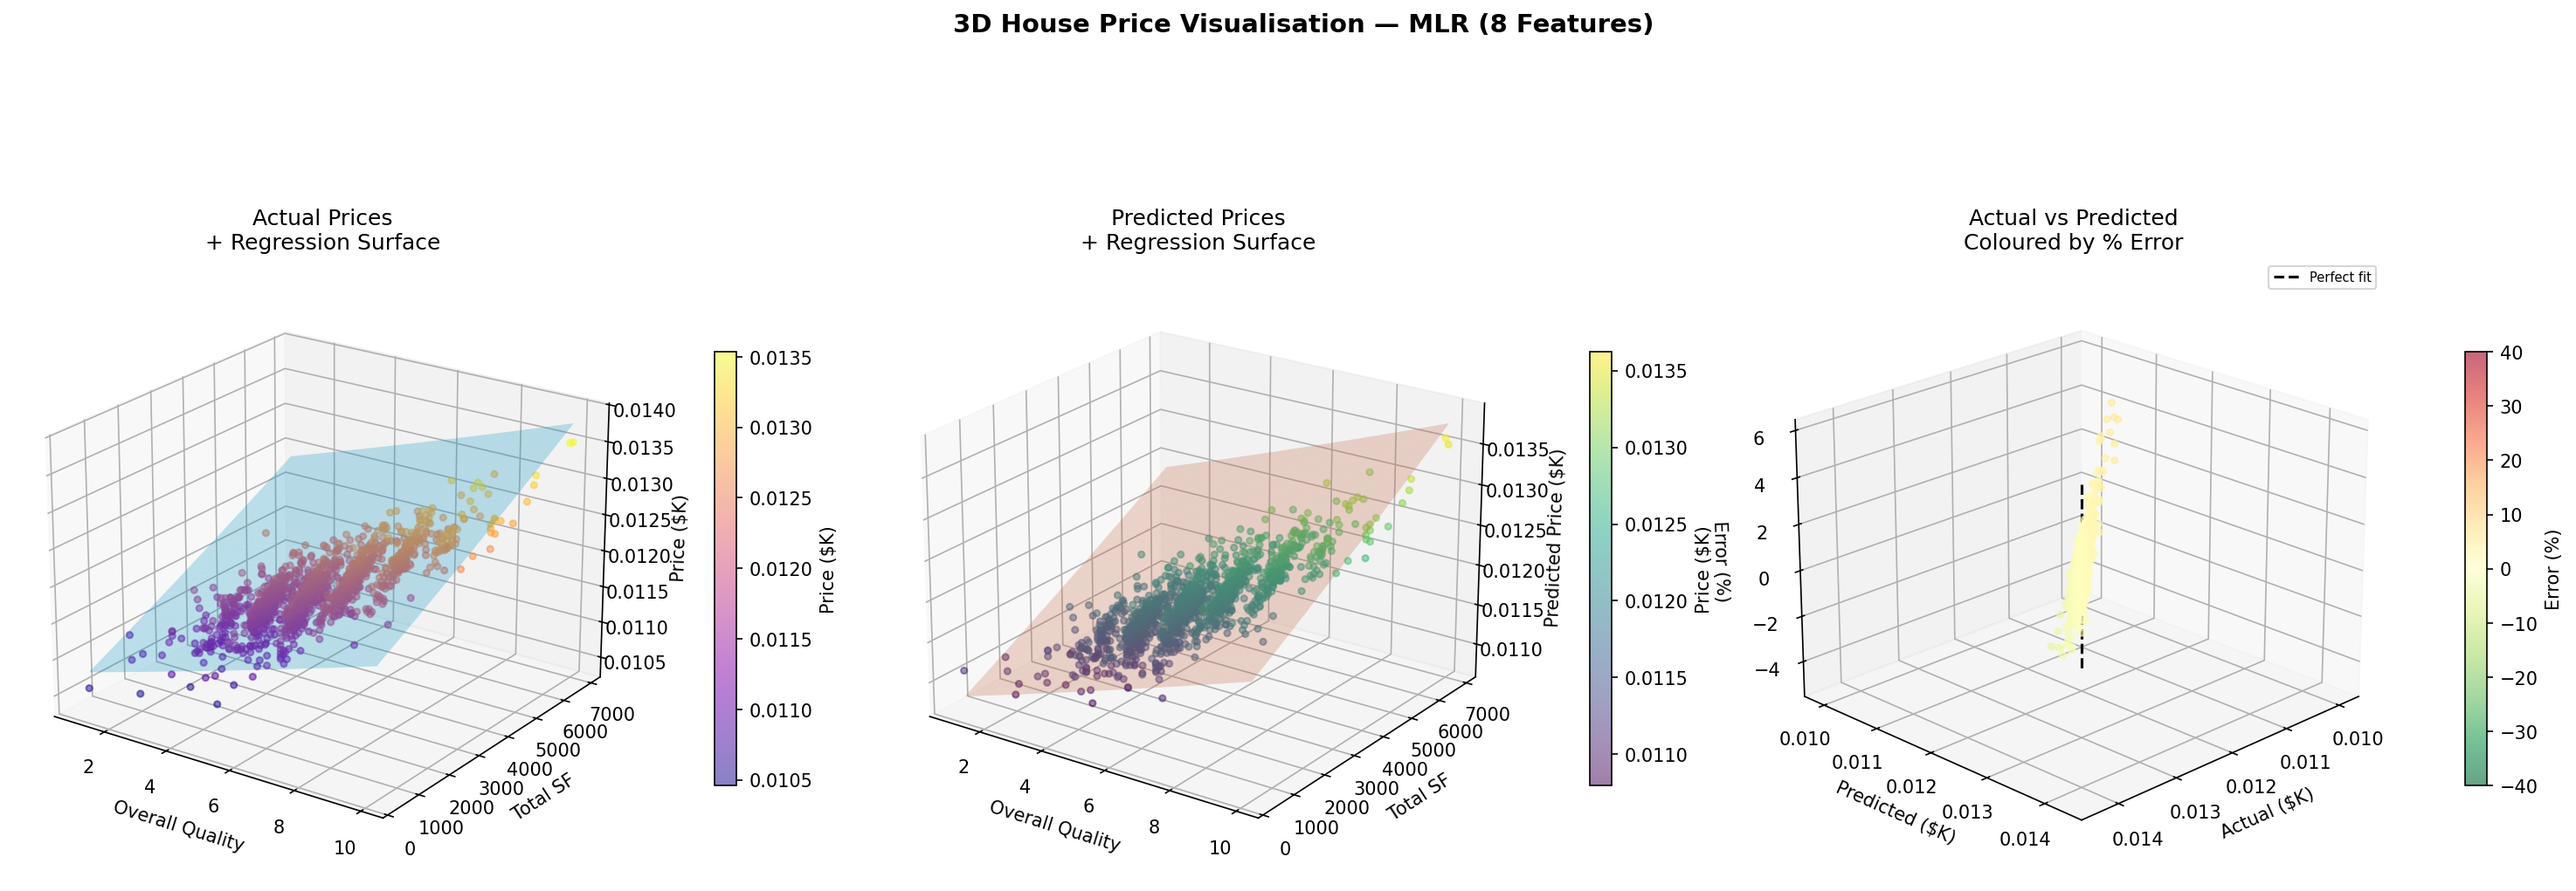
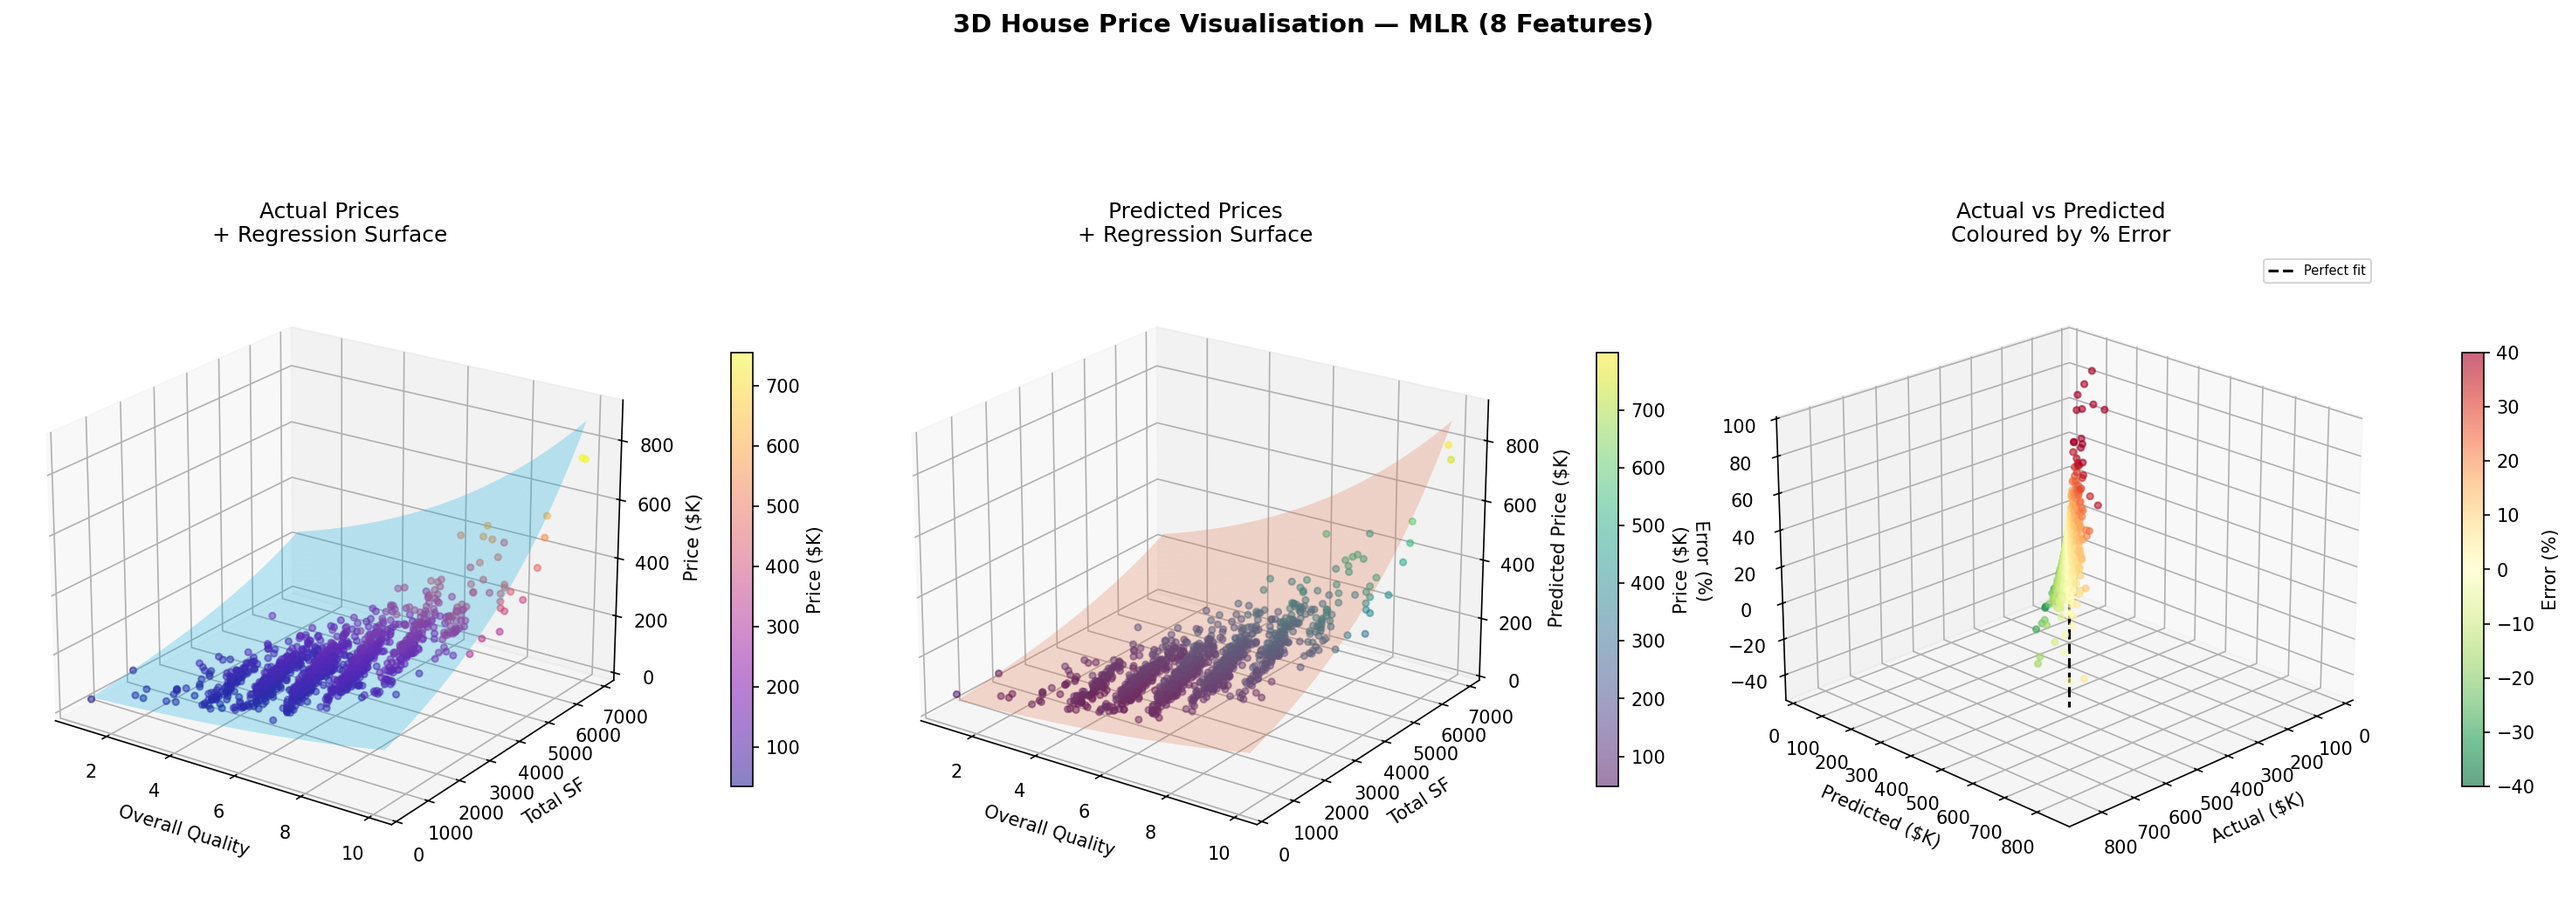
All main, model, evaluation improved for MAE RMSAE

diff --git a/evaluation.py b/evaluation.py
@@ -16,12 +16,32 @@ from sklearn.metrics import mean_absolute_error, mean_squared_error, r2_score
 def evaluate_model(model, preprocessor, X_test, y_test):
     X_sc   = preprocessor.transform(X_test)
     y_pred = model.predict(X_sc)
+    print("DEBUG:", y_pred[:5])
+    print("DEBUG exp:", np.exp(y_pred[:5]))
+    print("=" * 50)
+    print("DEBUG")
+    print(f"y_pred[:5]       : {y_pred[:5]}")
+    print(f"y_pred min/max   : {y_pred.min():.6f} / {y_pred.max():.6f}")
+    print(f"y_test[:5]       : {np.array(y_test)[:5]}")
+    print(f"exp(y_pred)[:5]  : {np.exp(y_pred[:5])}")
+    print(f"X_sc mean        : {X_sc.mean():.6f}")
+    print(f"X_sc std         : {X_sc.std():.6f}")
+    print(f"model.coef_[:3]  : {model.coef_[:3]}")
+    print("=" * 50)
+    # ── Log-scale metrics ──────────────────────────────────
+    r2   = r2_score(y_test, y_pred)
+    mae  = mean_absolute_error(y_test, y_pred)
+    rmse = np.sqrt(mean_squared_error(y_test, y_pred))
 
-    r2       = r2_score(y_test, y_pred)
-    mae      = mean_absolute_error(y_test, y_pred)
-    rmse     = np.sqrt(mean_squared_error(y_test, y_pred))
-    mae_usd  = mean_absolute_error(np.exp(y_test), np.exp(y_pred))
-    rmse_usd = np.sqrt(mean_squared_error(np.exp(y_test), np.exp(y_pred)))
+    # ── Dollar-scale metrics (back-transform FIRST, then error) ──
+    y_test_vals = np.array(y_test).flatten()   # ensure plain numpy array
+    y_pred_vals = np.array(y_pred).flatten()
+
+    y_actual_usd = np.exp(y_test_vals)
+    y_pred_usd   = np.exp(y_pred_vals)
+
+    mae_usd  = mean_absolute_error(y_actual_usd, y_pred_usd)
+    rmse_usd = np.sqrt(mean_squared_error(y_actual_usd, y_pred_usd))
 
     print("\n" + "═"*50)
     print("   HOLD-OUT TEST SET RESULTS")
@@ -32,6 +52,7 @@ def evaluate_model(model, preprocessor, X_test, y_test):
     print(f"   MAE  ($)         : ${mae_usd:>10,.0f}")
     print(f"   RMSE ($)         : ${rmse_usd:>10,.0f}")
     print("═"*50)
+
     return dict(r2=r2, mae=mae, rmse=rmse, mae_usd=mae_usd, rmse_usd=rmse_usd), y_pred
 
 
@@ -49,8 +70,8 @@ def predict_house_price(model, preprocessor, X_new):
 
 def plot_predicted_vs_actual(y_test, y_pred):
     r2 = r2_score(y_test, y_pred)
-    y_true_usd = np.exp(y_test)
-    y_pred_usd = np.exp(y_pred)
+    y_true_usd = np.exp(np.array(y_test).flatten())
+    y_pred_usd = np.exp(np.array(y_pred).flatten())
 
     plt.figure(figsize=(7, 6))
     plt.scatter(y_true_usd/1000, y_pred_usd/1000,
@@ -70,11 +91,14 @@ def plot_predicted_vs_actual(y_test, y_pred):
 
 
 def plot_residuals(y_test, y_pred):
-    residuals = y_test.values - y_pred
+    y_test_vals = np.array(y_test).flatten()
+    y_pred_vals = np.array(y_pred).flatten()
+    residuals   = y_test_vals - y_pred_vals
+
     fig, axes = plt.subplots(1, 2, figsize=(13, 5))
     fig.suptitle("Residual Diagnostics — MLR (262 Features)", fontsize=13, fontweight="bold")
 
-    axes[0].scatter(y_pred, residuals, alpha=0.4, s=30,
+    axes[0].scatter(y_pred_vals, residuals, alpha=0.4, s=30,
                     color="#4DB87A", edgecolors="white", lw=0.3)
     axes[0].axhline(0, color="#E05252", lw=1.8, linestyle="--")
     axes[0].set_xlabel("Fitted Value (log scale)")
@@ -94,9 +118,9 @@ def plot_residuals(y_test, y_pred):
 
 
 def plot_cv_comparison(cv_results):
-    ks    = sorted(cv_results.keys())
-    means = [cv_results[k]["test_r2"].mean() for k in ks]
-    stds  = [cv_results[k]["test_r2"].std()  for k in ks]
+    ks     = sorted(cv_results.keys())
+    means  = [cv_results[k]["test_r2"].mean() for k in ks]
+    stds   = [cv_results[k]["test_r2"].std()  for k in ks]
     colors = ["#3A7DC9", "#4DB87A", "#F5A623"]
 
     plt.figure(figsize=(6, 5))
@@ -120,7 +144,7 @@ def plot_cv_comparison(cv_results):
 def plot_feature_importance(model, feature_names):
     """Bar chart of top 15 beta coefficients by absolute value."""
     coef_series = pd.Series(model.coef_, index=feature_names)
-    top15 = coef_series.reindex(coef_series.abs().sort_values(ascending=False).head(15).index)
+    top15  = coef_series.reindex(coef_series.abs().sort_values(ascending=False).head(15).index)
     colors = ["#E05252" if c < 0 else "#3A7DC9" for c in top15[::-1]]
 
     plt.figure(figsize=(9, 6))

diff --git a/data_loader.py b/data_loader.py
@@ -16,8 +16,8 @@ def load_data(filepath: str = "data/train.csv"):
 
     if TARGET not in df.columns:
         raise ValueError(f"'{TARGET}' column not found in dataset.")
-
-    y = np.log(df[TARGET].copy())   # log-transform target
+    y = df[TARGET].copy().astype(float)   
+    print(f"y sample: {y.head(3).values}")
     X = df.drop(columns=[TARGET, "Id"], errors="ignore").copy()
 
     # One-hot encode categoricals
@@ -32,5 +32,11 @@ def load_data(filepath: str = "data/train.csv"):
     # Fill missing values with median
     X = X.fillna(X.median(numeric_only=True))
 
+    # ── Reset index so X and y stay aligned after train_test_split ──
+    X = X.reset_index(drop=True)
+    y = y.reset_index(drop=True)
+
     print(f"[DataLoader] Loaded  →  {X.shape[0]} rows  |  {X.shape[1]} features")
+    print(f"[DataLoader] y range →  {y.min():.4f} – {y.max():.4f}  "
+          f"(${np.exp(y.min()):,.0f} – ${np.exp(y.max()):,.0f})")
     return X, y

diff --git a/models.py b/models.py
@@ -1,14 +1,4 @@
-"""
-models.py
-─────────
-Returns the Multiple Linear Regression model.
 
-Model equation:
-  Y = β₀ + β₁X₁ + β₂X₂ + ... + βₙXₙ + ε
-
-Beta coefficients solved via the Normal Equation:
-  β̂ = (XᵀX)⁻¹XᵀY
-"""
 
 from sklearn.linear_model import LinearRegression
 

diff --git a/plot_3d.py b/plot_3d.py
@@ -1,11 +1,3 @@
-"""
-plot_3d.py
-──────────
-3D visualisation using the top 2 of the 8 features:
-  X — OverallQual   Y — TotalSF   Z — Price ($K)
-
-Called by main.py automatically.
-"""
 
 import numpy as np
 import matplotlib.pyplot as plt

diff --git a/main.py b/main.py
@@ -17,7 +17,7 @@ Steps:
   11. Plot — CV Comparison
   12. Plot — Top 15 Beta Coefficients
   13. Plot — 3D Visualisation
-  14. Sample Predictions
+  14. Sample Predictions    
 """
 
 import os, time, numpy as np, matplotlib.pyplot as plt
